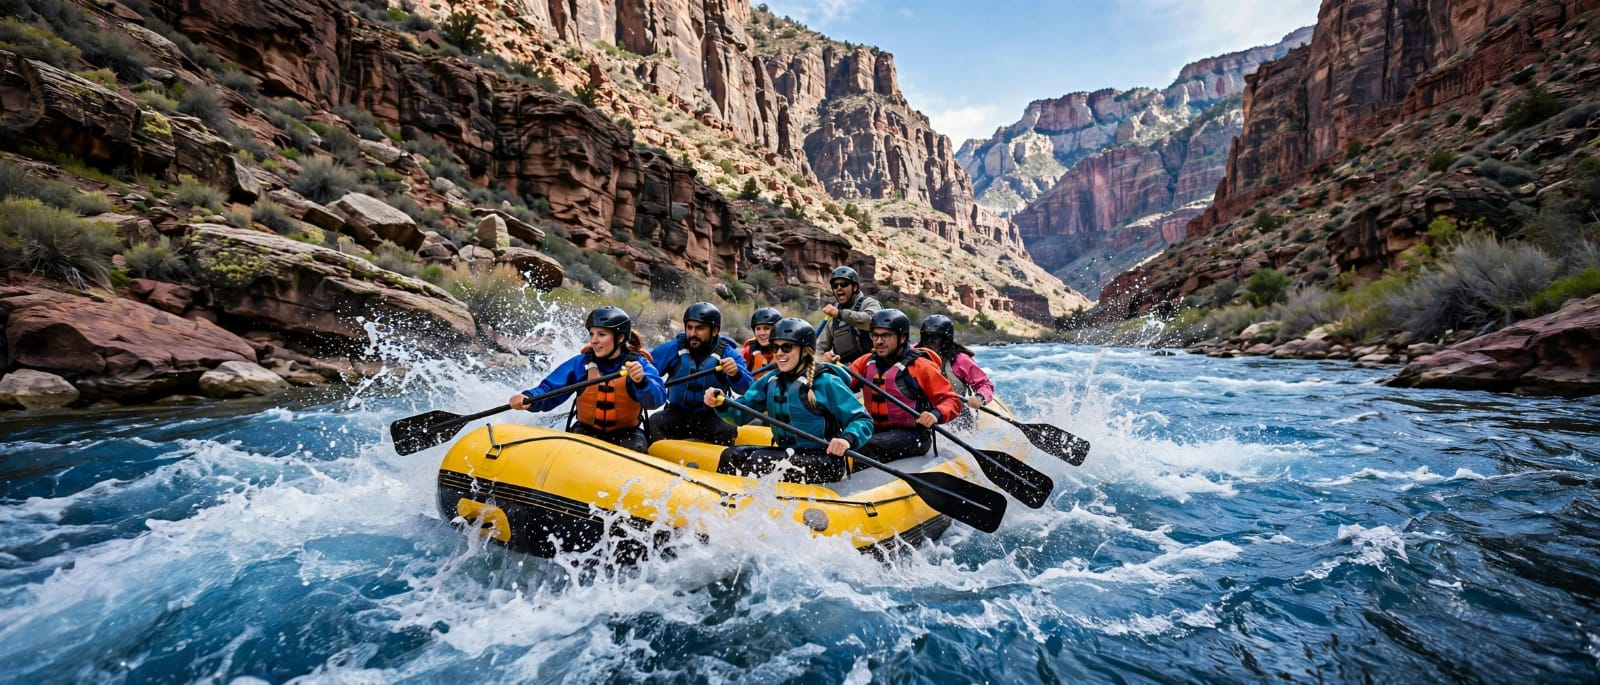
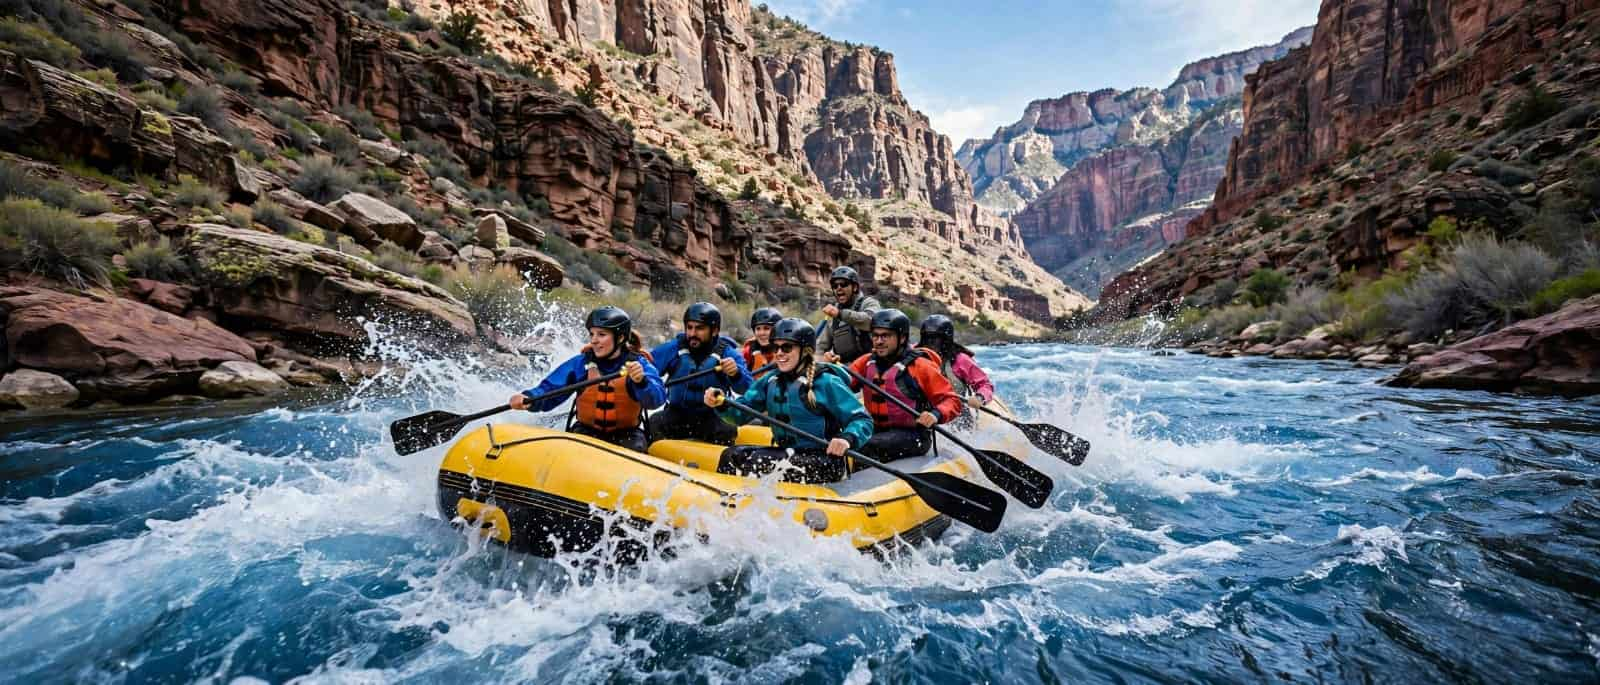
fix images 121 kb pass

diff --git a/week03/wwr/about.html b/week03/wwr/about.html
@@ -2,10 +2,11 @@
 <html lang="en-US">
 
 <head>
-    <meta charset="utf-8">
+    <meta charset="UTF-8">
     <meta name="viewport" content="width=device-width, intial-scale=1.0">
-    <title>White Water Rafting | Lorraine-Lolo</title>
-    <meta name="desription" content="White Water Rafting Site">
+    <title>About Us - White Water Rafting | Lorraine-Lolo</title>
+    <meta name="desription"
+      content="Learn about White Water Rafting history, our mission, and thrilling adventure tours with Lorraine Lolo. Join us for unforgettable rafting experiences.">
     <meta name="author" content="Lorraine Lolo">
     <link rel="stylesheet" href="styles/rafting.css">
 </head>

diff --git a/week03/wwr/styles/rafting.css b/week03/wwr/styles/rafting.css
@@ -79,3 +79,12 @@ title {
     float: right;
     width: 125px;
 }
+
+.socialmedia a {
+    text-decoration: none;
+}
+
+footer {
+    background-color: var(--secondary-color);
+    color: var(--accent2-color);
+}
